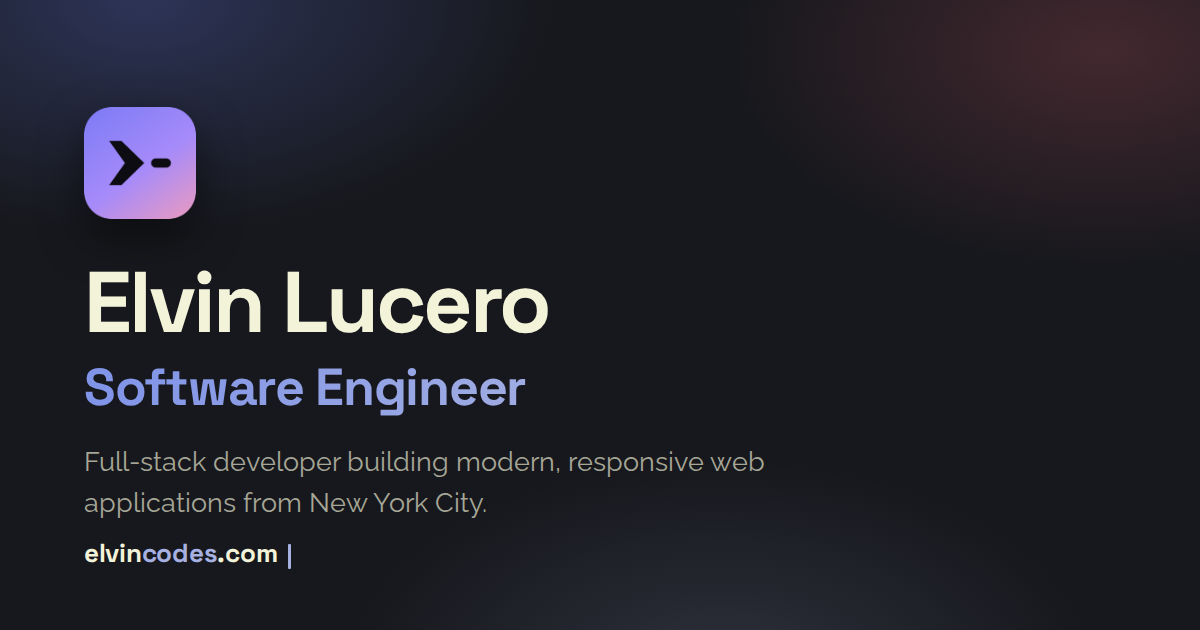
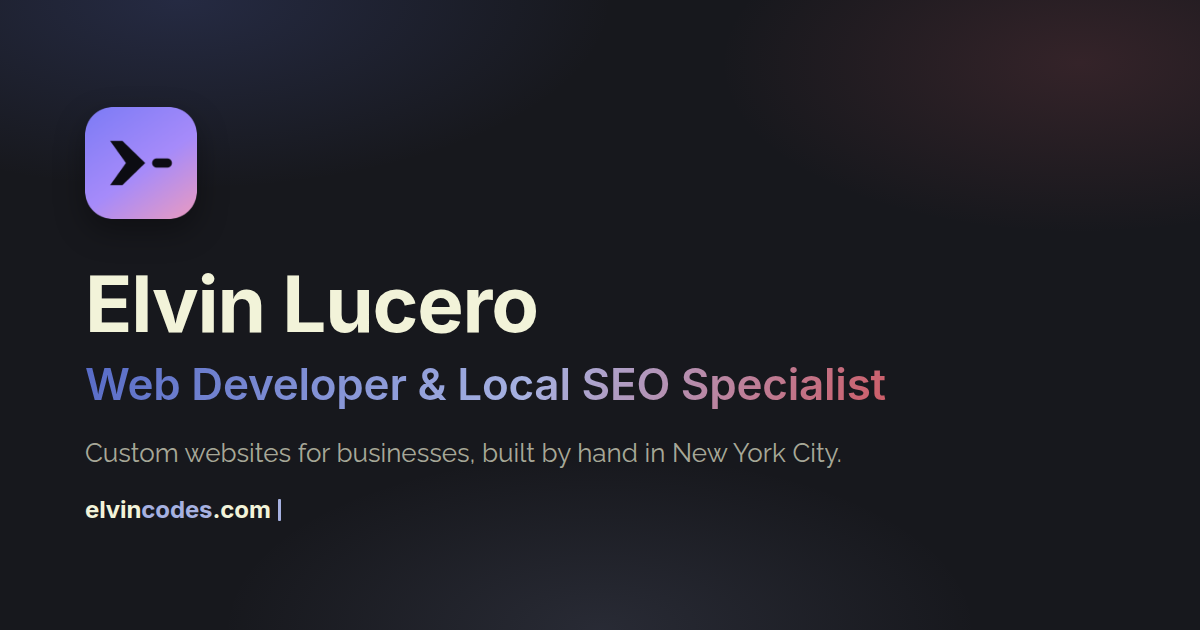
Update the professional title to Web Developer & Local SEO Specialist
Replaces Software Engineer everywhere it appeared: the hero, the page title,
the Open Graph and Twitter titles, the share image alt text, the JSON-LD
jobTitle, and the README. No GMB or Google My Business references remained.

The longer title wrapped with its first word stranded at the end of the
greeting line. The accent now starts on its own line and uses text-wrap:
balance, so it reads Web Developer & / Local SEO Specialist; browsers
without balance support still wrap normally.

Regenerates images/og-image.png, which still read Software Engineer. There
was no template for it in the repo, so adds scripts/og-image.html built from
the site's own fonts, palette and brand mark, and scripts/render-og-image.js
to capture it at 1200x630. The render script refuses to write the image if
either webfont fails to load, and Playwright is run through npx rather than
added to package.json so it does not slow every deploy's npm install. The
card's description line, which was the pre-rewrite hero sentence, is updated
to match current positioning.

diff --git a/scripts/og-image.html b/scripts/og-image.html
@@ -1,0 +1,133 @@
+<!doctype html>
+<!--
+  Template for images/og-image.png, the 1200x630 card shown when the site is
+  shared on LinkedIn, Slack, iMessage and the like.
+
+  Uses the site's own fonts, palette and brand mark, so it stays in step with
+  the site. Regenerate after changing the title or copy:
+
+    npx -p playwright node scripts/render-og-image.js
+
+  Paths are root-absolute: the render script serves the repo root.
+-->
+<html lang="en">
+  <head>
+    <meta charset="utf-8" />
+    <style>
+      @font-face {
+        font-family: "Inter";
+        font-weight: 100 900;
+        src: url("/fonts/files/inter-latin-v20.woff2") format("woff2");
+      }
+      @font-face {
+        font-family: "Raleway";
+        font-weight: 100 900;
+        src: url("/fonts/files/raleway-latin-v37.woff2") format("woff2");
+      }
+
+      html,
+      body {
+        margin: 0;
+      }
+
+      .card {
+        position: relative;
+        width: 1200px;
+        height: 630px;
+        overflow: hidden;
+        box-sizing: border-box;
+        padding: 107px 85px 0;
+        background-color: #17181d;
+        color: #f2f3d9;
+        font-family: "Raleway", sans-serif;
+      }
+
+      /* Same ambient glow as .page::before on the site */
+      .card::before {
+        content: "";
+        position: absolute;
+        inset: 0;
+        background:
+          radial-gradient(60% 50% at 15% 0%, rgba(87, 107, 199, 0.22), transparent 60%),
+          radial-gradient(50% 45% at 90% 10%, rgba(205, 93, 103, 0.16), transparent 60%),
+          radial-gradient(45% 40% at 50% 100%, rgba(166, 177, 225, 0.12), transparent 70%);
+      }
+
+      .card > * {
+        position: relative;
+      }
+
+      .mark {
+        display: block;
+        width: 112px;
+        height: 112px;
+        border-radius: 26px;
+        box-shadow: 0 12px 30px rgba(0, 0, 0, 0.35);
+      }
+
+      .name {
+        margin: 46px 0 0;
+        font-family: "Inter", sans-serif;
+        font-size: 78px;
+        font-weight: 700;
+        line-height: 1;
+        letter-spacing: -0.015em;
+      }
+
+      .title {
+        display: inline-block;
+        margin: 16px 0 0;
+        font-family: "Inter", sans-serif;
+        font-size: 44px;
+        font-weight: 600;
+        line-height: 1.15;
+        letter-spacing: -0.005em;
+        background: linear-gradient(120deg, #576bc7, #a6b1e1 55%, #cd5d67);
+        -webkit-background-clip: text;
+        background-clip: text;
+        color: transparent;
+      }
+
+      .desc {
+        max-width: 760px;
+        margin: 24px 0 0;
+        font-size: 26px;
+        line-height: 1.5;
+        color: rgba(242, 243, 217, 0.68);
+      }
+
+      .url {
+        margin: 22px 0 0;
+        font-family: "Inter", sans-serif;
+        font-size: 24px;
+        font-weight: 700;
+        letter-spacing: -0.005em;
+      }
+
+      .url span {
+        color: #a6b1e1;
+      }
+
+      .caret {
+        display: inline-block;
+        width: 3px;
+        height: 0.9em;
+        margin-left: 7px;
+        transform: translateY(0.12em);
+        border-radius: 1px;
+        background: #a6b1e1;
+      }
+    </style>
+  </head>
+  <body>
+    <div class="card">
+      <img class="mark" src="/images/brand-icon.png" alt="" />
+      <h1 class="name">Elvin Lucero</h1>
+      <div class="title">Web Developer &amp; Local SEO Specialist</div>
+      <p class="desc">
+        Custom websites for businesses, built by hand in New York City.
+      </p>
+      <p class="url">elvin<span>codes</span>.com<i class="caret"></i></p>
+    </div>
+  </body>
+</html>

diff --git a/scripts/render-og-image.js b/scripts/render-og-image.js
@@ -1,0 +1,68 @@
+#!/usr/bin/env node
+/*
+ * Renders scripts/og-image.html to images/og-image.png at 1200x630.
+ *
+ *   npx -p playwright node scripts/render-og-image.js
+ *
+ * Playwright is deliberately not a dependency in package.json: the host runs
+ * npm install on every deploy, and pulling a browser in for an image that
+ * changes a few times a year would slow every build for nothing.
+ *
+ * Serves the repo root over a throwaway local server so the template's
+ * root-absolute font and image paths resolve exactly as they do on the site,
+ * and waits for the fonts before capturing — otherwise the card can be shot in
+ * a fallback face.
+ */
+
+const fs = require("fs");
+const path = require("path");
+const http = require("http");
+const { chromium } = require("playwright");
+
+const ROOT = path.join(__dirname, "..");
+const OUT = path.join(ROOT, "images", "og-image.png");
+const TYPES = {
+  ".html": "text/html",
+  ".png": "image/png",
+  ".woff2": "font/woff2",
+};
+
+const server = http.createServer((req, res) => {
+  const file = path.join(ROOT, decodeURIComponent(req.url.split("?")[0]));
+  if (!file.startsWith(ROOT) || !fs.existsSync(file) || fs.statSync(file).isDirectory()) {
+    res.writeHead(404);
+    return res.end();
+  }
+  res.writeHead(200, { "Content-Type": TYPES[path.extname(file)] || "application/octet-stream" });
+  fs.createReadStream(file).pipe(res);
+});
+
+(async () => {
+  await new Promise((resolve) => server.listen(0, resolve));
+  const { port } = server.address();
+
+  const browser = await chromium.launch(
+    process.env.CHROMIUM_PATH ? { executablePath: process.env.CHROMIUM_PATH } : {}
+  );
+  try {
+    const page = await browser.newPage({ viewport: { width: 1200, height: 630 } });
+    await page.goto(`http://localhost:${port}/scripts/og-image.html`, { waitUntil: "networkidle" });
+    await page.evaluate(() => document.fonts.ready);
+
+    const loaded = await page.evaluate(() =>
+      [...document.fonts].filter((f) => f.status === "loaded").map((f) => f.family)
+    );
+    for (const family of ["Inter", "Raleway"]) {
+      if (!loaded.includes(family)) throw new Error(`${family} did not load — refusing to render with a fallback`);
+    }
+
+    await page.locator(".card").screenshot({ path: OUT });
+    console.log(`wrote ${path.relative(ROOT, OUT)}`);
+  } finally {
+    await browser.close();
+    server.close();
+  }
+})().catch((err) => {
+  console.error(err.message);
+  process.exit(1);
+});

diff --git a/index.html b/index.html
@@ -13,7 +13,7 @@
 
     <!-- Open Graph -->
     <meta property="og:site_name" content="ElvinCodes" />
-    <meta property="og:title" content="ElvinCodes — Software Engineer" />
+    <meta property="og:title" content="ElvinCodes — Web Developer &amp; Local SEO Specialist" />
     <meta
       property="og:description"
       content="Full-stack developer in NYC. Custom websites for businesses, and open to full-time engineering roles."
@@ -29,12 +29,12 @@
     <meta property="og:image:height" content="630" />
     <meta
       property="og:image:alt"
-      content="Elvin Lucero — Software Engineer, full-stack developer in New York City"
+      content="Elvin Lucero — Web Developer &amp; Local SEO Specialist, full-stack developer in New York City"
     />
 
     <!-- Twitter -->
     <meta name="twitter:card" content="summary_large_image" />
-    <meta name="twitter:title" content="ElvinCodes — Software Engineer" />
+    <meta name="twitter:title" content="ElvinCodes — Web Developer &amp; Local SEO Specialist" />
     <meta
       name="twitter:description"
       content="Full-stack developer in NYC. Custom websites for businesses, and open to full-time engineering roles."
@@ -44,7 +44,7 @@
       content="https://elvincodes.com/images/og-image.png"
     />
 
-    <title>ElvinCodes — Software Engineer</title>
+    <title>ElvinCodes — Web Developer &amp; Local SEO Specialist</title>
 
     <!-- Structured data -->
     <script type="application/ld+json">
@@ -54,7 +54,7 @@
         "name": "Elvin Lucero",
         "url": "https://elvincodes.com/",
         "image": "https://elvincodes.com/images/og-image.png",
-        "jobTitle": "Software Engineer",
+        "jobTitle": "Web Developer & Local SEO Specialist",
         "description": "Full-stack developer in NYC. Custom websites for businesses, and open to full-time engineering roles.",
         "address": {
           "@type": "PostalAddress",
@@ -179,7 +179,7 @@
 
         <h1 class="hero__title" id="hero-title">
           Hey, I'm Elvin —
-          <span class="hero__title-accent">Software Engineer</span>
+          <span class="hero__title-accent">Web Developer &amp; Local SEO Specialist</span>
         </h1>
         <p class="hero__description">
           Full-stack developer based in NYC. I build custom websites for

diff --git a/assets/index.css b/assets/index.css
@@ -931,6 +931,11 @@ a {
 }
 
 .hero__title-accent {
+  /* The title starts on its own line and wraps evenly, so a long title never
+     leaves its first word stranded at the end of the greeting. Browsers
+     without text-wrap: balance still wrap normally. */
+  display: block;
+  text-wrap: balance;
   background: var(--gradient);
   -webkit-background-clip: text;
   background-clip: text;

diff --git a/blocks/header.css b/blocks/header.css
@@ -105,6 +105,11 @@
 }
 
 .hero__title-accent {
+  /* The title starts on its own line and wraps evenly, so a long title never
+     leaves its first word stranded at the end of the greeting. Browsers
+     without text-wrap: balance still wrap normally. */
+  display: block;
+  text-wrap: balance;
   background: var(--gradient);
   -webkit-background-clip: text;
   background-clip: text;

diff --git a/README.md b/README.md
@@ -1,4 +1,4 @@
-# Elvin Lucero | Software Engineer
+# Elvin Lucero | Web Developer & Local SEO Specialist
 
 Personal portfolio site showcasing my web development projects.
 
